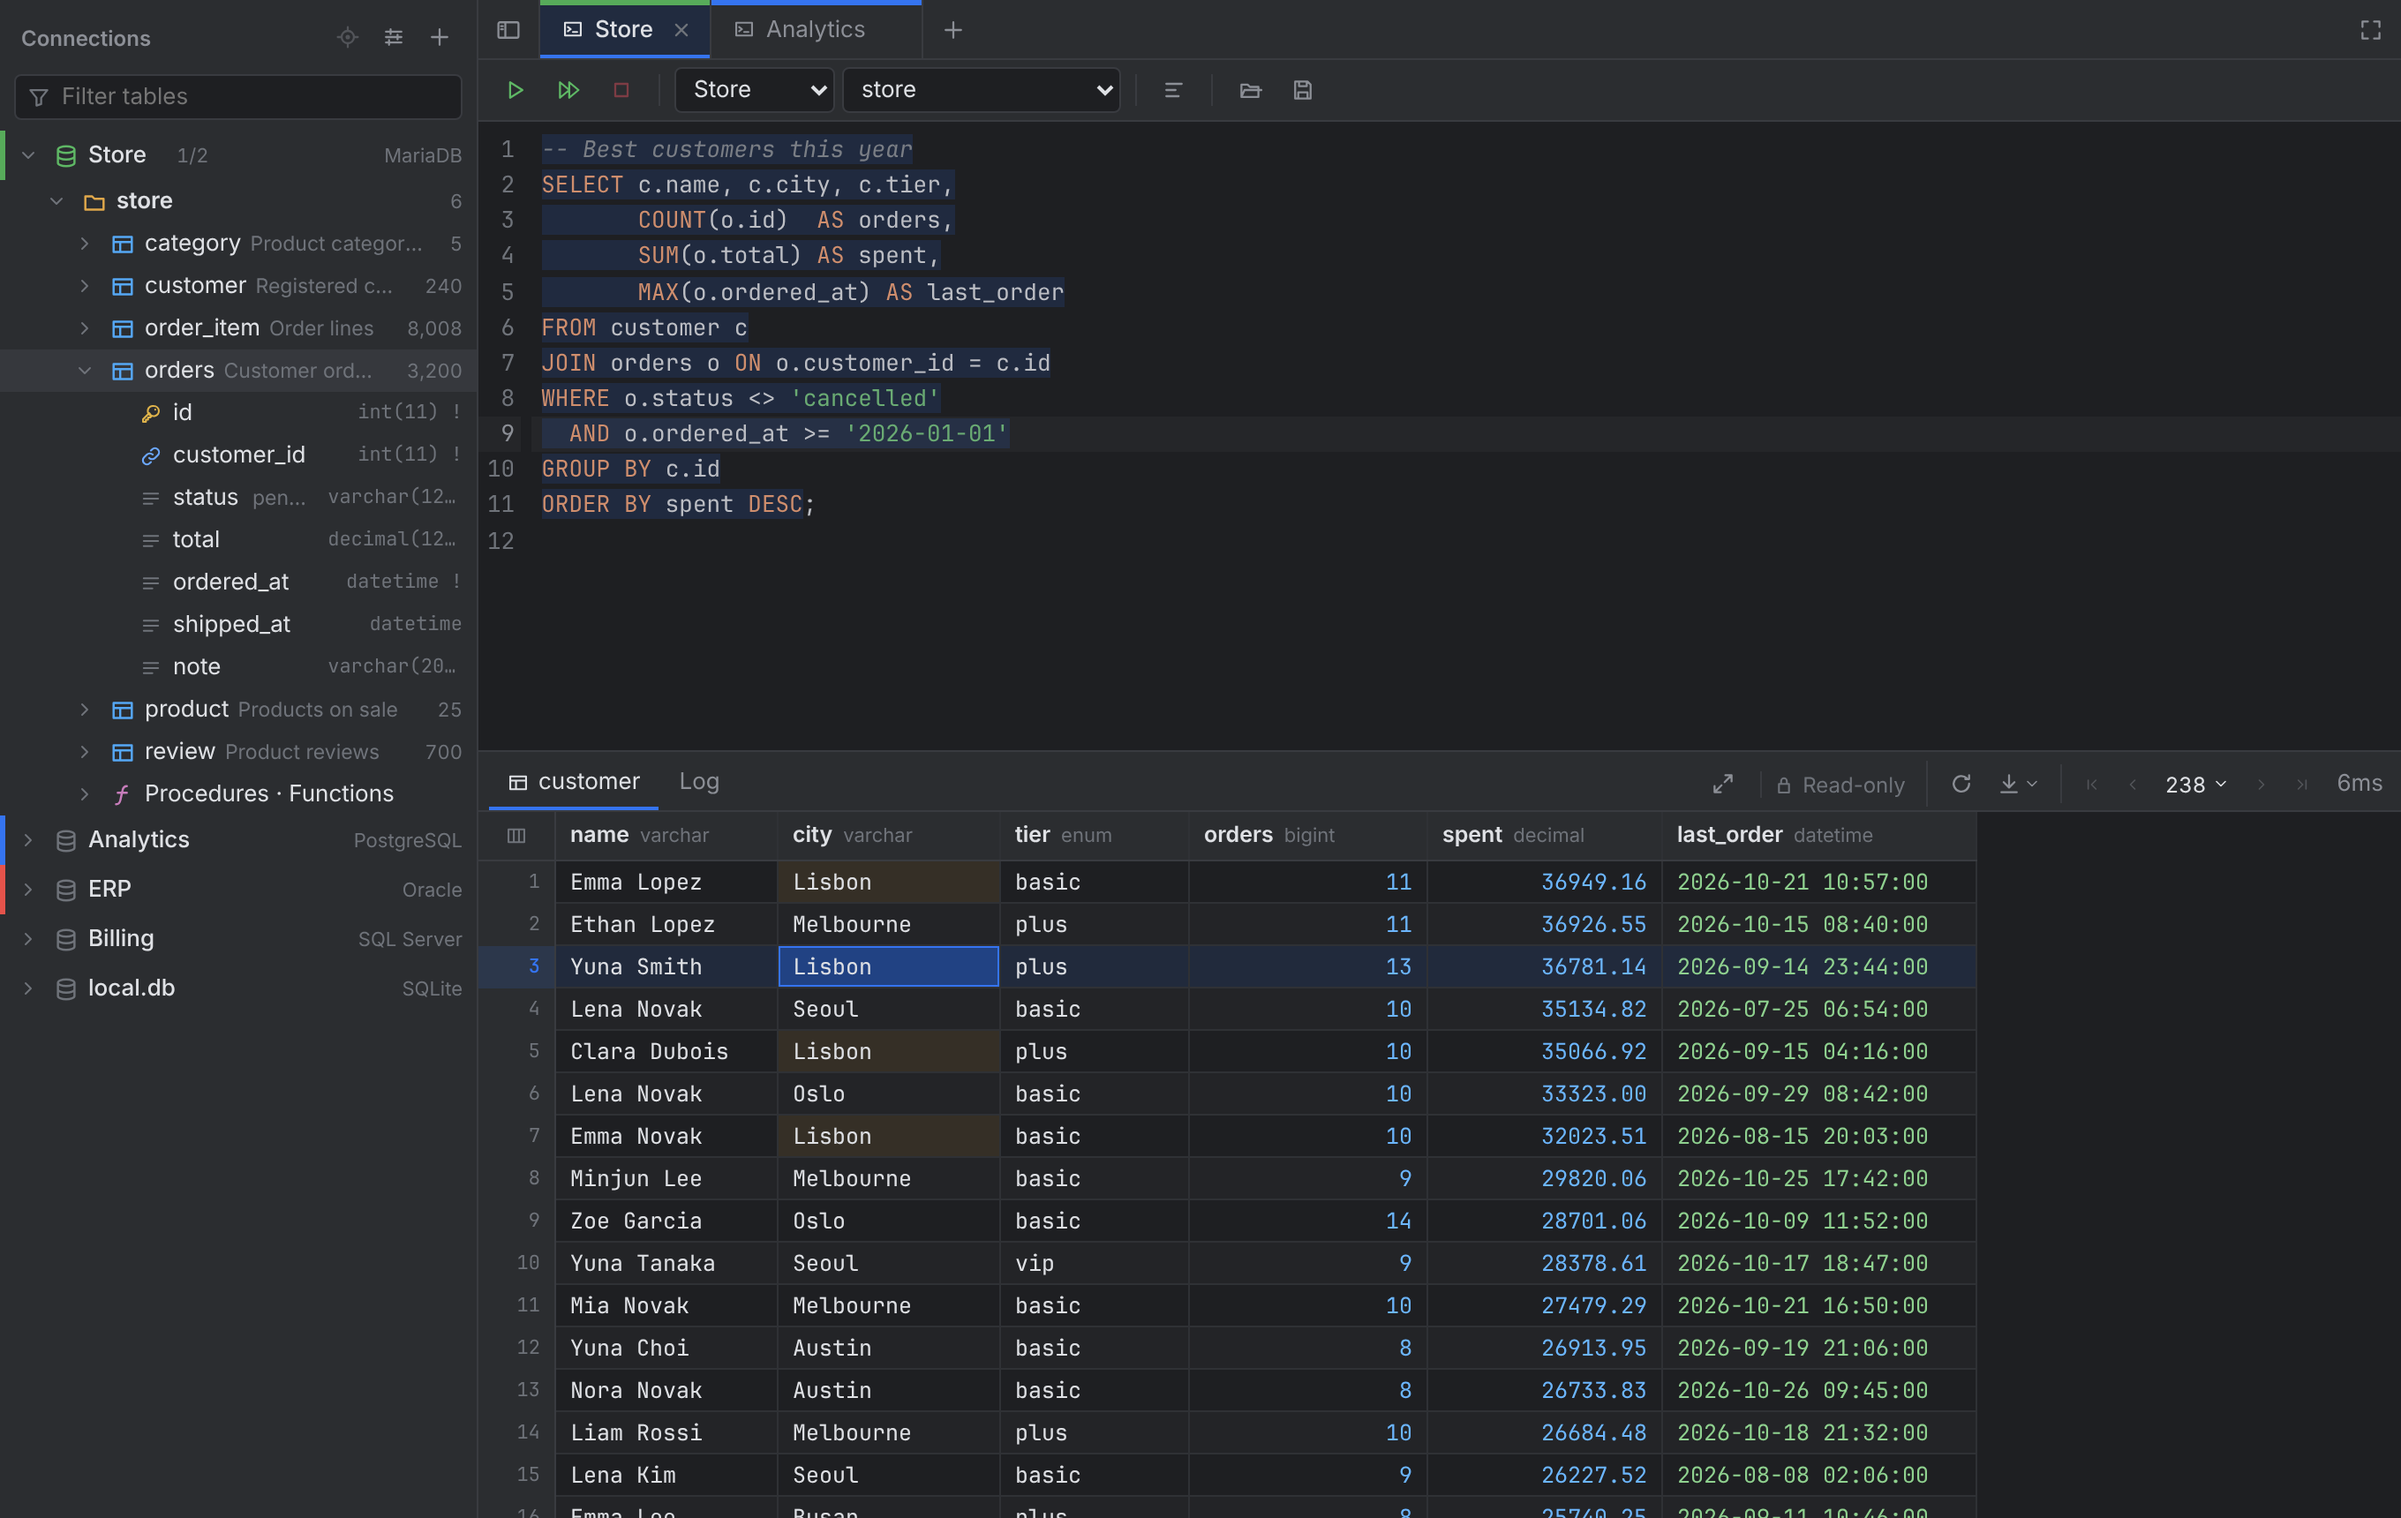
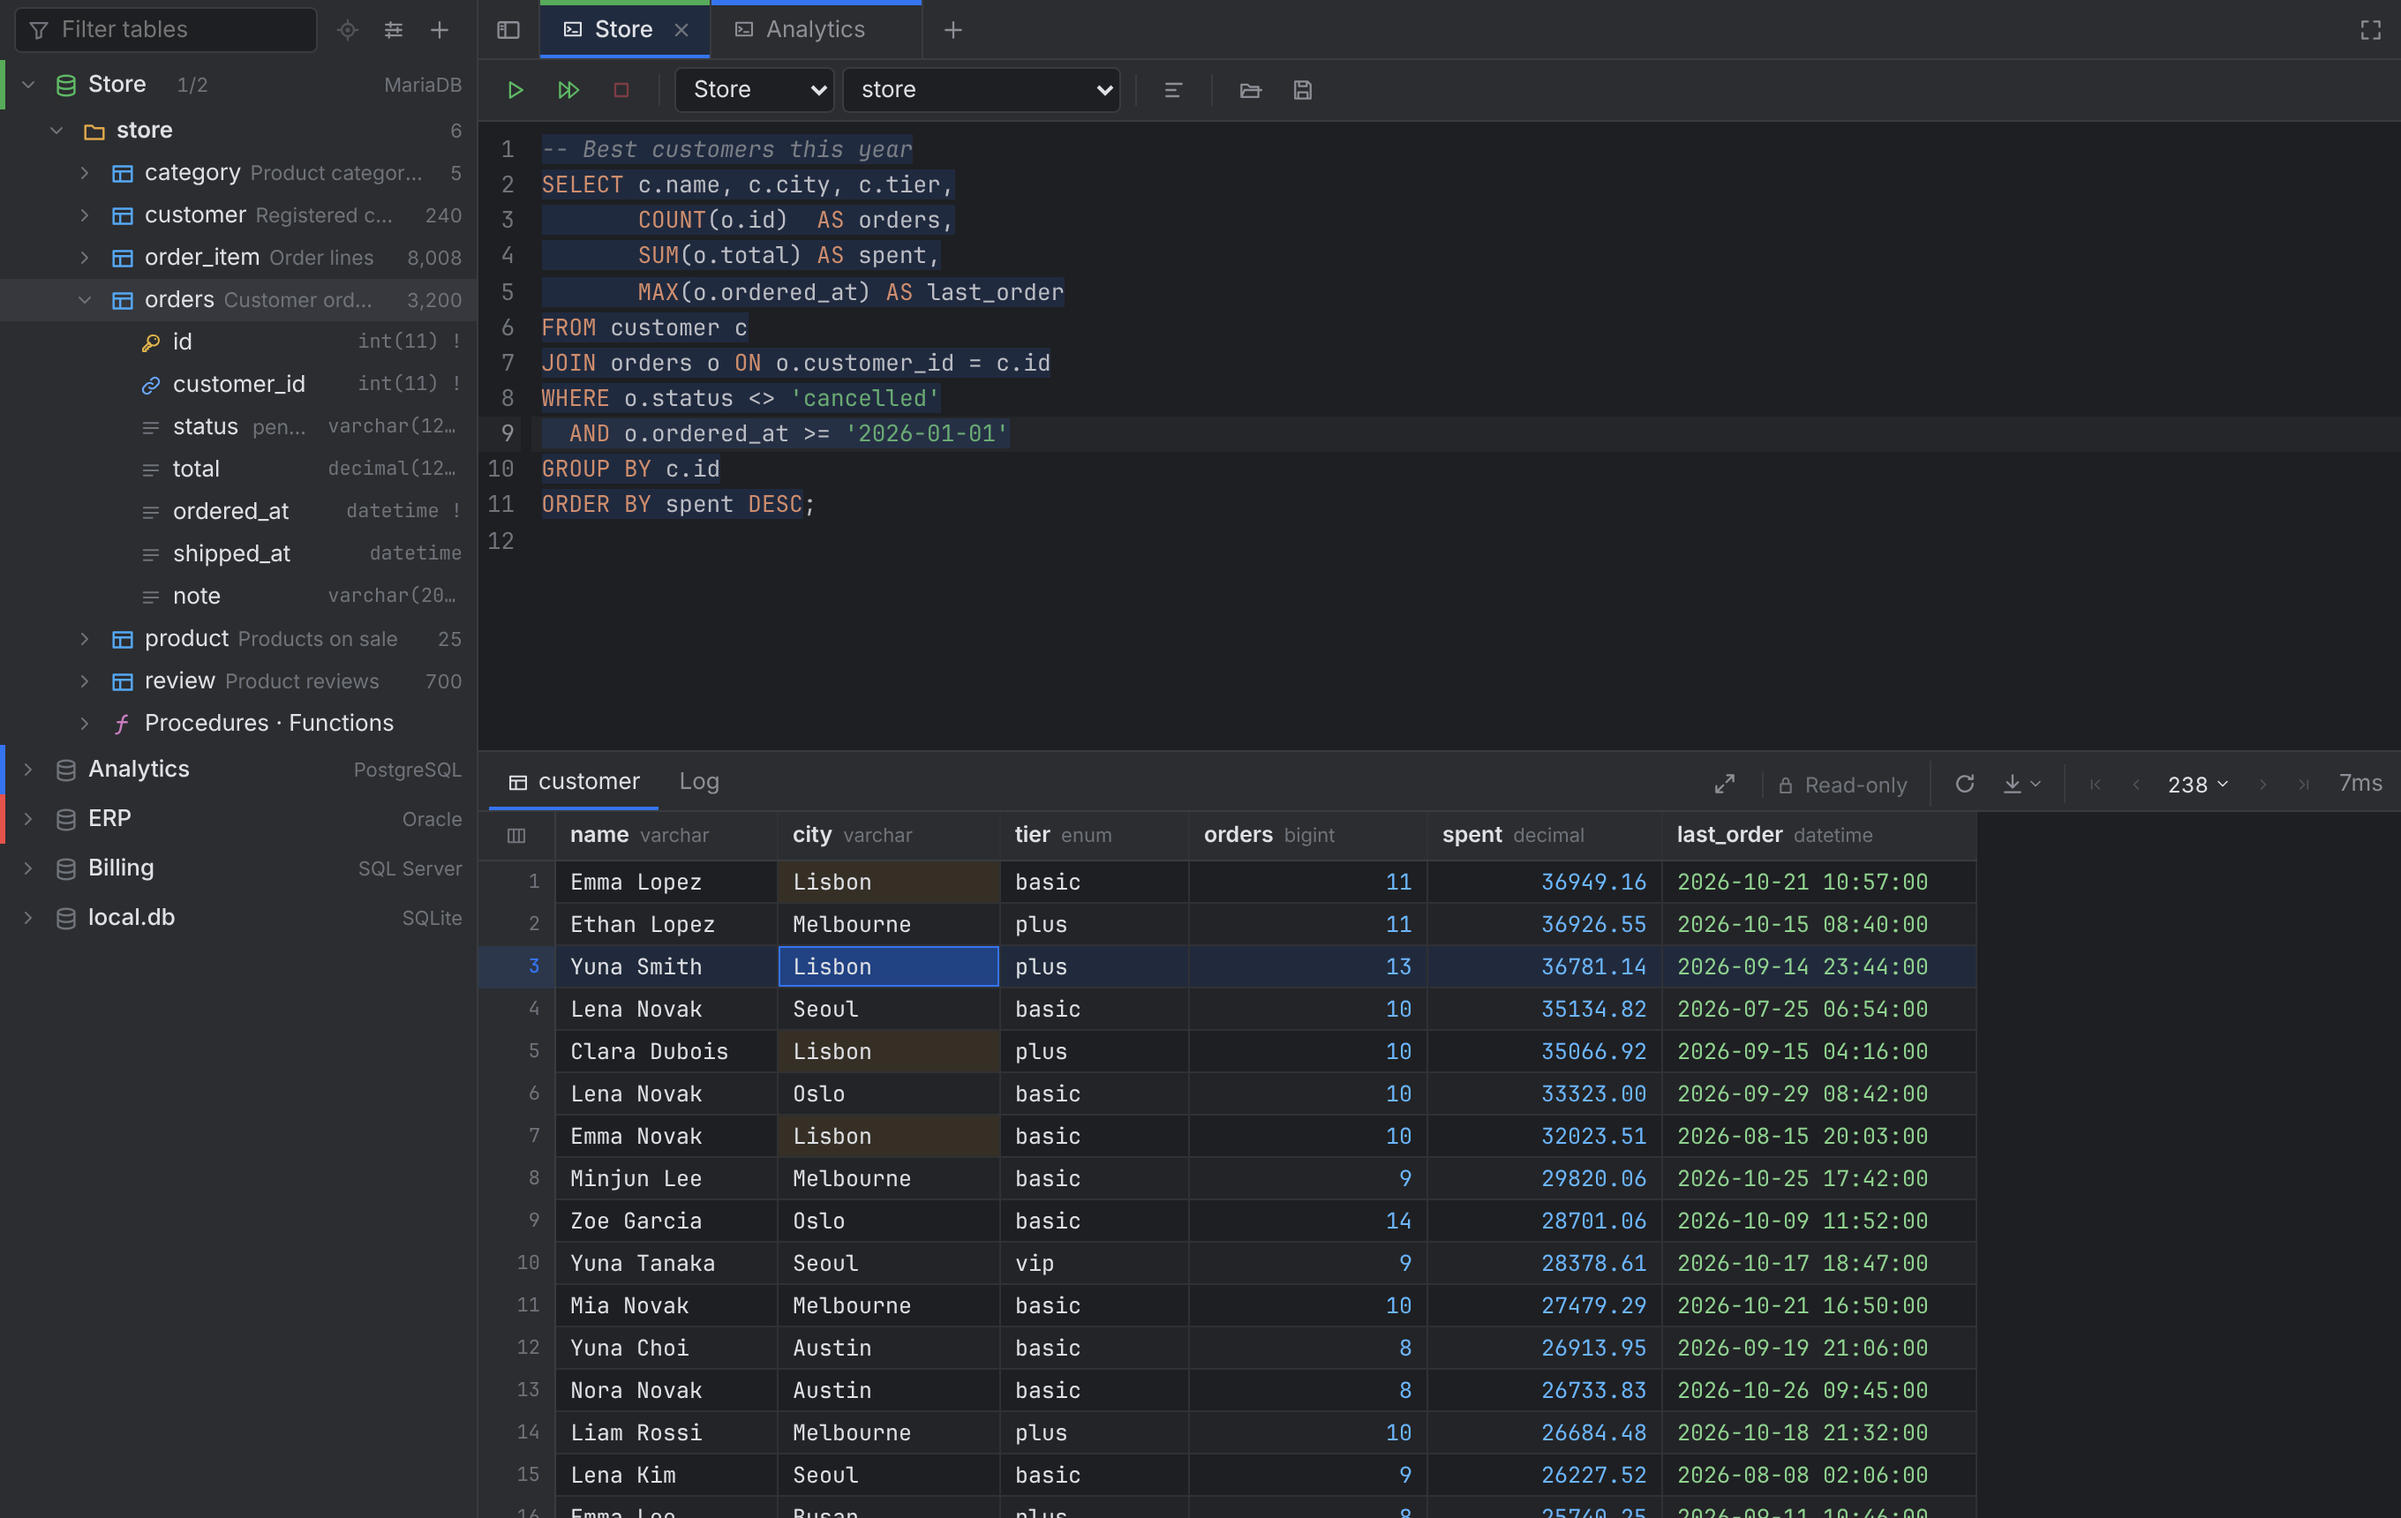
Sidebar: the table filter takes the "Connections" title's row
The title named only part of what the tree shows and the panel needs no
name; the row now matches the tab bar's height. Screenshots updated.

Claude-Session: https://claude.ai/code/session_01KpnxsFu5ptZ5DK5KNxGCk4

diff --git a/frontend/src/components/Sidebar.svelte b/frontend/src/components/Sidebar.svelte
@@ -578,7 +578,11 @@
 
 <aside>
   <div class="top">
-    <span class="title">{tr('연결#목록')}</span>
+    <div class="filter">
+      <Icon name="filter" size={14} />
+      <input bind:value={filter} placeholder={tr('테이블 필터')} spellcheck="false" />
+      {#if filter}<button class="x-btn" title={tr('필터 지우기')} onclick={() => (filter = '')}><Icon name="close" size={14} /></button>{/if}
+    </div>
     <button class="icon-btn" title={tr('열린 테이블을 트리에서 찾기')} onclick={locate} disabled={!activeKey}><Icon name="locate" /></button>
     <div class="viewopt">
       <button
@@ -679,11 +683,6 @@
       {/if}
     </div>
     <button class="icon-btn" title={tr('새 연결')} onclick={() => (app.editing = blank())}><Icon name="plus" /></button>
-  </div>
-  <div class="filter">
-    <Icon name="filter" size={14} />
-    <input bind:value={filter} placeholder={tr('테이블 필터')} spellcheck="false" />
-    {#if filter}<button class="x-btn" title={tr('필터 지우기')} onclick={() => (filter = '')}><Icon name="close" size={14} /></button>{/if}
   </div>
 
   <!-- svelte-ignore a11y_no_noninteractive_tabindex -->
@@ -827,19 +826,16 @@
   .top {
     display: flex;
     align-items: center;
-    padding: 8px 8px 4px 12px;
-  }
-  .title {
-    flex: 1;
-    font-weight: 600;
-    color: var(--text-dim);
-    font-size: 12px;
+    /* as tall as the tab bar beside it */
+    padding: 4px 8px;
   }
   .filter {
+    flex: 1;
+    min-width: 0;
     display: flex;
     align-items: center;
     gap: 6px;
-    margin: 4px 8px 6px;
+    margin-right: 4px;
     padding: 0 6px;
     border: 1px solid var(--border);
     border-radius: 4px;

diff --git a/frontend/src/lib/i18n.svelte.ts b/frontend/src/lib/i18n.svelte.ts
@@ -5,7 +5,7 @@
 //
 // Placeholders: t('{n}행', { n: 3 }); in English {n|row|rows} picks the
 // singular when n is 1. A key can end in #context when one Korean word needs
-// two English ones (t('연결#목록') shows 연결). t() reads the reactive language, so
+// two English ones (t('연결#선택') shows 연결). t() reads the reactive language, so
 // markup re-renders when it changes; text kept in variables must be made
 // again (or kept as the Korean key and passed through t() where shown).
 

diff --git a/frontend/src/lib/i18n-en.ts b/frontend/src/lib/i18n-en.ts
@@ -65,7 +65,6 @@ export default {
 
   // connection tree
   '연결': 'Connect',
-  '연결#목록': 'Connections',
   '연결#선택': 'Connection',
   '새 연결': 'New Connection',
   '열린 테이블을 트리에서 찾기': 'Find the open table in the tree',
